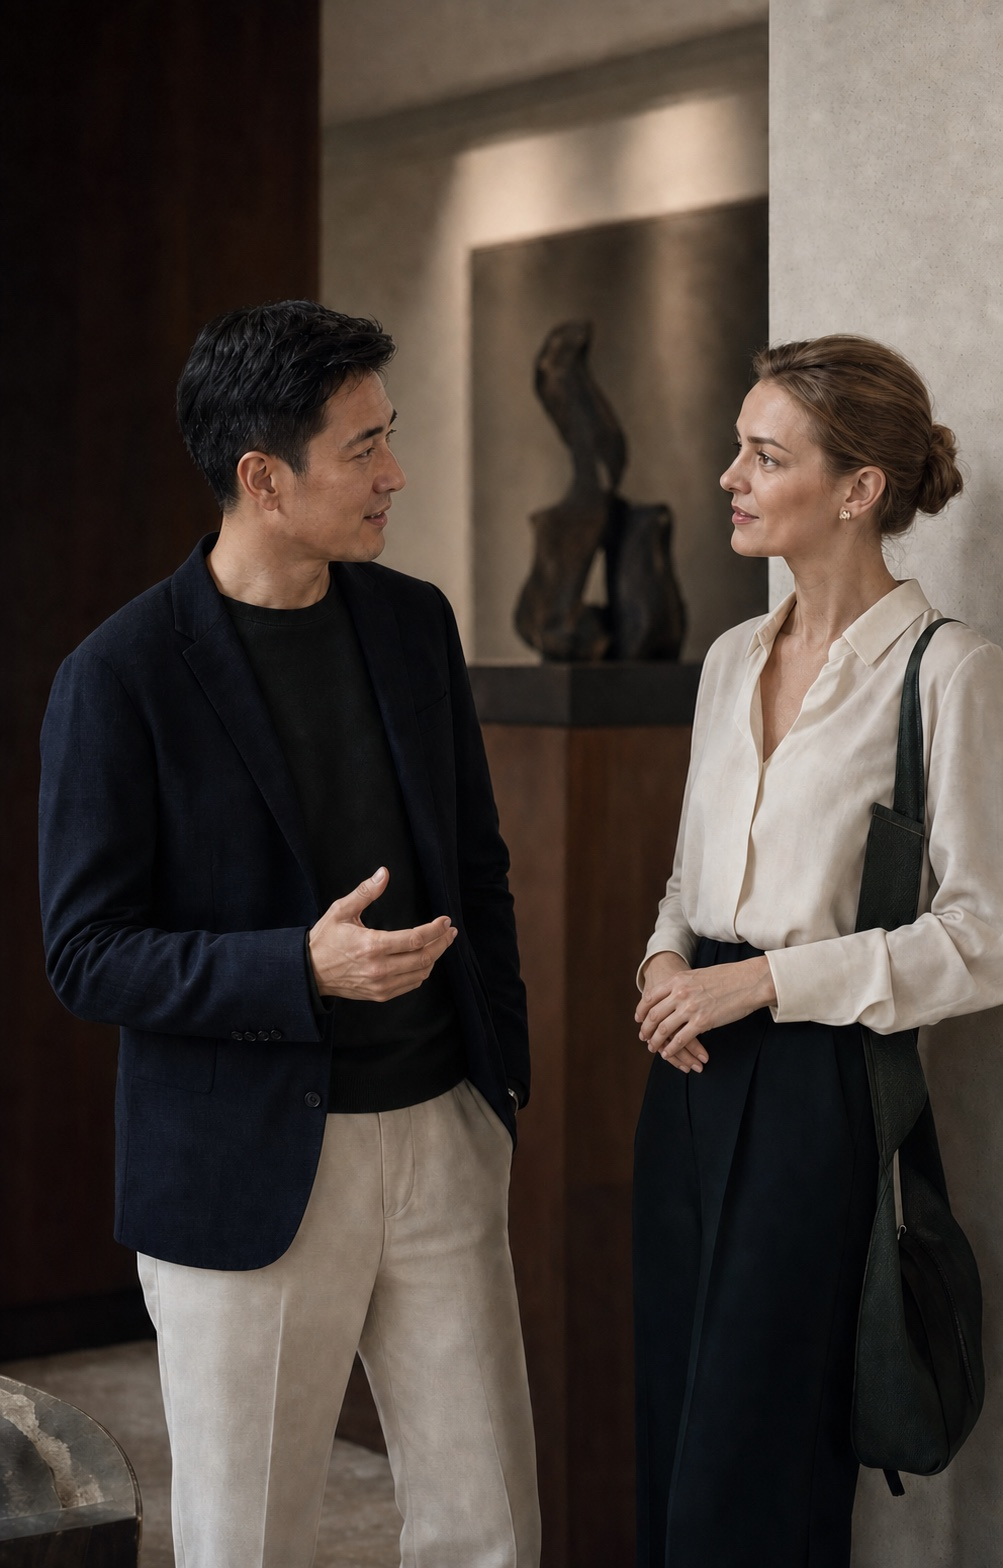
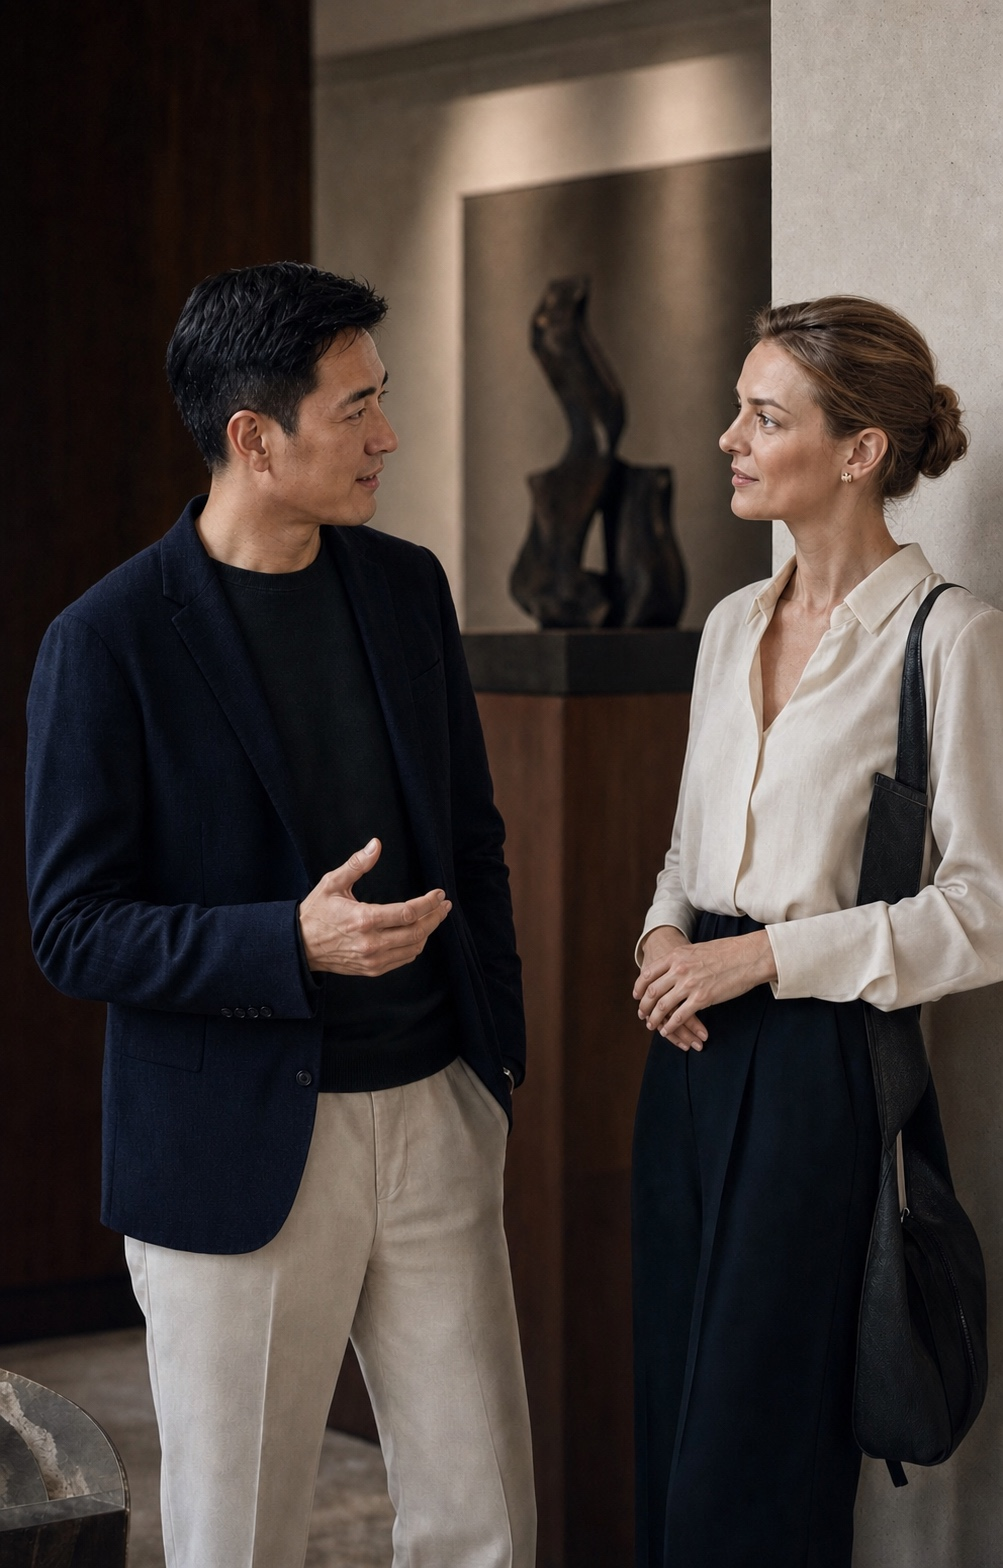
Restore marriage agency identity and retain visual refinements

diff --git a/app/globals.css b/app/globals.css
@@ -218,7 +218,7 @@ img {
 }
 
 .hero-image-cn {
-  object-position: 56% 42%;
+  object-position: 56% 18%;
 }
 
 @keyframes hero-image-in {
@@ -286,6 +286,9 @@ img {
 
 .market-tabs button {
   position: relative;
+  display: inline-flex;
+  align-items: center;
+  gap: 8px;
   min-height: 44px;
   padding: 0 2px;
   border: 0;
@@ -293,6 +296,52 @@ img {
   color: rgba(248, 247, 242, 0.72);
   cursor: pointer;
   font-size: 15px;
+}
+
+.country-flag {
+  position: relative;
+  display: inline-block;
+  width: 22px;
+  height: 22px;
+  flex: 0 0 auto;
+  overflow: hidden;
+  border: 1px solid rgba(255, 255, 255, 0.48);
+  border-radius: 50%;
+  box-shadow: 0 3px 10px rgba(0, 0, 0, 0.18);
+  transition:
+    box-shadow 220ms ease,
+    transform 220ms ease;
+}
+
+.country-flag-ru {
+  background: linear-gradient(
+    to bottom,
+    #ffffff 0 33.33%,
+    #2452a4 33.33% 66.66%,
+    #c8323e 66.66% 100%
+  );
+}
+
+.country-flag-cn {
+  background: #c92f38;
+}
+
+.country-flag-cn::after {
+  position: absolute;
+  top: 1px;
+  left: 4px;
+  content: "★";
+  color: #f4ce4b;
+  font-size: 8px;
+  line-height: 1;
+}
+
+.market-tabs button:hover .country-flag,
+.market-tabs button[aria-selected="true"] .country-flag {
+  transform: translateY(-2px) scale(1.08);
+  box-shadow:
+    0 6px 14px rgba(0, 0, 0, 0.28),
+    0 0 0 2px rgba(248, 247, 242, 0.16);
 }
 
 .market-tabs button::after {
@@ -468,12 +517,12 @@ img {
   letter-spacing: 0.045em;
 }
 
-.section-index span:first-child {
+.section-index > span:first-child {
   color: var(--ink);
   font-variant-numeric: tabular-nums;
 }
 
-.section-index span:last-child::before {
+.section-index > span:last-child::before {
   display: inline-block;
   width: 48px;
   height: 1px;
@@ -486,12 +535,34 @@ img {
   color: rgba(255, 255, 255, 0.6);
 }
 
-.section-index-light span:first-child {
+.section-index-light > span:first-child {
   color: var(--white);
 }
 
 .section-index-compact {
   margin-bottom: 38px;
+}
+
+.section-index-label {
+  display: inline-flex;
+  align-items: center;
+  gap: 12px;
+}
+
+.country-pair {
+  display: inline-flex;
+  align-items: center;
+}
+
+.country-pair .country-flag {
+  width: 18px;
+  height: 18px;
+  border-color: rgba(29, 31, 27, 0.2);
+  box-shadow: 0 2px 7px rgba(29, 31, 27, 0.16);
+}
+
+.country-pair .country-flag + .country-flag {
+  margin-left: -5px;
 }
 
 .intro {
@@ -621,13 +692,20 @@ img {
 }
 
 .process-list li {
+  position: relative;
+  z-index: 0;
   min-height: 330px;
   padding: 30px clamp(22px, 2.5vw, 38px) 36px;
   border-left: 1px solid var(--line-light);
+  background: var(--charcoal);
+  transition:
+    background-color 240ms ease,
+    border-color 240ms ease,
+    box-shadow 240ms ease,
+    transform 240ms cubic-bezier(0.2, 0.75, 0.25, 1);
 }
 
 .process-list li:first-child {
-  padding-left: 0;
   border-left: 0;
 }
 
@@ -768,11 +846,17 @@ img {
 }
 
 .service-card {
+  position: relative;
+  z-index: 0;
   display: flex;
   flex-direction: column;
   justify-content: space-between;
   min-height: 530px;
   padding: clamp(38px, 5vw, 72px);
+  transition:
+    background-color 240ms ease,
+    box-shadow 240ms ease,
+    transform 240ms cubic-bezier(0.2, 0.75, 0.25, 1);
 }
 
 .service-card-dark {
@@ -1233,6 +1317,10 @@ img {
   margin: 0;
   color: rgba(255, 255, 255, 0.56);
   font-size: 14px;
+}
+
+.footer-wordmark {
+  color: var(--white);
 }
 
 .footer-main nav {
@@ -1712,10 +1800,6 @@ img {
     margin-top: 40px;
   }
 
-  .hero h1 br {
-    display: none;
-  }
-
   .hero-actions,
   .button-primary {
     width: 100%;
@@ -1780,6 +1864,45 @@ img {
     align-items: flex-start;
     flex-direction: column;
     gap: 10px;
+  }
+}
+
+@media (hover: hover) and (pointer: fine) {
+  .process-list li:hover {
+    z-index: 2;
+    border-color: rgba(224, 216, 204, 0.48);
+    background: #2c302a;
+    box-shadow:
+      0 30px 64px rgba(0, 0, 0, 0.34),
+      inset 0 1px 0 rgba(255, 255, 255, 0.08);
+    transform: translateY(-6px);
+  }
+
+  .process-list li:hover .process-number {
+    color: #d7c9b6;
+  }
+
+  .process-list li:hover p {
+    color: rgba(255, 255, 255, 0.78);
+  }
+
+  .service-card:hover,
+  .service-card:focus-within {
+    z-index: 2;
+    box-shadow:
+      0 30px 70px rgba(29, 31, 27, 0.2),
+      inset 0 1px 0 rgba(255, 255, 255, 0.22);
+    transform: translateY(-9px) scale(1.012);
+  }
+
+  .service-card-dark:hover,
+  .service-card-dark:focus-within {
+    background: #445240;
+  }
+
+  .service-card-sand:hover,
+  .service-card-sand:focus-within {
+    background: #e9e2d8;
   }
 }
 

diff --git a/app/site.tsx b/app/site.tsx
@@ -84,6 +84,15 @@ const faqs = [
   },
 ];
 
+function CountryFlag({ country }: { country: Market }) {
+  return (
+    <span
+      className={`country-flag country-flag-${country}`}
+      aria-hidden="true"
+    />
+  );
+}
+
 export function MarriageAgencySite() {
   const [market, setMarket] = useState<Market>("ru");
   const [menuOpen, setMenuOpen] = useState(false);
@@ -207,7 +216,8 @@ export function MarriageAgencySite() {
                   aria-controls="hero-scene"
                   onClick={() => setMarket("ru")}
                 >
-                  Россия
+                  <CountryFlag country="ru" />
+                  <span>Россия</span>
                 </button>
                 <button
                   type="button"
@@ -216,7 +226,8 @@ export function MarriageAgencySite() {
                   aria-controls="hero-scene"
                   onClick={() => setMarket("cn")}
                 >
-                  Китай
+                  <CountryFlag country="cn" />
+                  <span>Китай</span>
                 </button>
               </div>
             </div>
@@ -421,7 +432,13 @@ export function MarriageAgencySite() {
           <div className="geography-copy">
             <div className="section-index section-index-compact">
               <span>04</span>
-              <span>Россия и Китай</span>
+              <span className="section-index-label">
+                Россия и Китай
+                <span className="country-pair" aria-hidden="true">
+                  <CountryFlag country="ru" />
+                  <CountryFlag country="cn" />
+                </span>
+              </span>
             </div>
             <p className="geography-mark" aria-hidden="true">
               RU <span>—</span> CN

diff --git a/.design-director/design-qa.md b/.design-director/design-qa.md
@@ -5,6 +5,18 @@
 - Source: approved full-bleed first-screen composition supplied by the user
 - Implementation: `.design-director/assets/qa/implementation-home-1440x900.png`
 - Comparison: `.design-director/assets/qa/comparison-hero-final.png`
+- China desktop state:
+  `.design-director/assets/qa/implementation-china-crop-1440x900.png`
+- China mobile state:
+  `.design-director/assets/qa/implementation-china-crop-375x844-v2.png`
+- Restored agency identity, desktop:
+  `.design-director/assets/qa/implementation-restored-agency-1440x900.png`
+- Restored agency identity, mobile:
+  `.design-director/assets/qa/implementation-restored-agency-375x844.png`
+- Revised club photograph:
+  `.design-director/assets/qa/implementation-club-photoreal-1440x900.png`
+- Revised process-card spacing:
+  `.design-director/assets/qa/implementation-process-hover-spacing-1440x900.png`
 - Desktop viewport: 1440 × 900
 - Mobile viewport: 375 × 844
 
@@ -13,16 +25,29 @@
 - The desktop composition preserves the approved white navigation bar, dark editorial hero, restrained green CTAs, two-level action hierarchy and three trust markers.
 - The preferred seated-couple photograph replaces the original city scene and remains legible beneath a controlled left-to-right overlay.
 - The China switch visibly replaces the hero image and keeps the Russia–China positioning explicit.
+- The revised China focal point keeps both heads and faces visible at desktop
+  and mobile viewports.
 - The mobile layout preserves the headline, primary CTA and core value proposition without horizontal overflow.
+- The mobile headline now keeps a semantic line break and no longer joins
+  «агентство» and «для».
 - Navigation, mobile menu, geography switch, FAQ and local application confirmation were exercised in the browser.
-- The club photograph contains no glass or alcohol-related object.
+- The public name, header wordmark, metadata and footer are restored to
+  «Брачное агентство»; the discarded VO identity is not present on the site.
+- The club photograph was re-rendered with more natural skin, hands, fabric,
+  light falloff and camera texture; it contains no glass or alcohol-related
+  object.
+- The first process card now uses the same internal left padding as the other
+  cards and lifts vertically without horizontal scale, so its hover surface no
+  longer appears cramped against the left boundary.
 - The production build completes without errors.
+- The two rendered-site tests pass.
 
 ## Severity
 
 - P0: none
 - P1: none
 - P2: none
-- P3: replace provisional agency name, contact details, legal links and demo form handling before accepting real enquiries
+- P3: replace provisional contact details, legal links and demo form handling
+  before accepting real enquiries
 
 final result: passed

diff --git a/.design-director/visual-spec.md b/.design-director/visual-spec.md
@@ -42,6 +42,23 @@
 - Fine one-pixel dividers; no glass panels or heavy shadows.
 - Desktop section spacing: `112–156 px`; mobile: `72–96 px`.
 
+## Brand identity
+
+- Current public name: «Брачное агентство».
+- The identity is deliberately typographic and restrained; no emblem is used
+  in the current version.
+- The service is described directly as a marriage agency for serious
+  relationships in Russia and China.
+- No pink, hearts, rings or decorative wedding clichés.
+
+## Interaction finish
+
+- Process and secondary service cards gain lift, a controlled shadow and a
+  subtle surface change on hover-capable devices.
+- Hover motion is disabled by the existing reduced-motion preference.
+- Russia and China tabs use small circular flag signs; the selected or hovered
+  sign lifts slightly while the text remains the primary label.
+
 ## Hero
 
 - Height: at least `calc(100svh - 86px)`.
@@ -55,8 +72,11 @@
 
 - `hero-couple.jpg`: selected Russia hero.
 - `couple-china-city.jpg`: China hero state and international section.
-- `couple-china-club-no-glass.jpg`: closed-club section; the original glass was
-  removed and the woman's hands were restored naturally.
+- The China hero uses an upper focal point (`56% 18%`) so both faces remain
+  visible in wide first-viewport crops.
+- `couple-china-club-no-glass.jpg`: closed-club section; re-rendered as a more
+  natural editorial photograph with realistic skin, hands, fabric and optical
+  texture. The scene contains no glass or alcohol.
 - `couple-russia-mature.jpg`: photography/service section.
 - Every temporary AI photograph is marked as illustrative and must remain easy
   to replace with the photographer's future original work.
